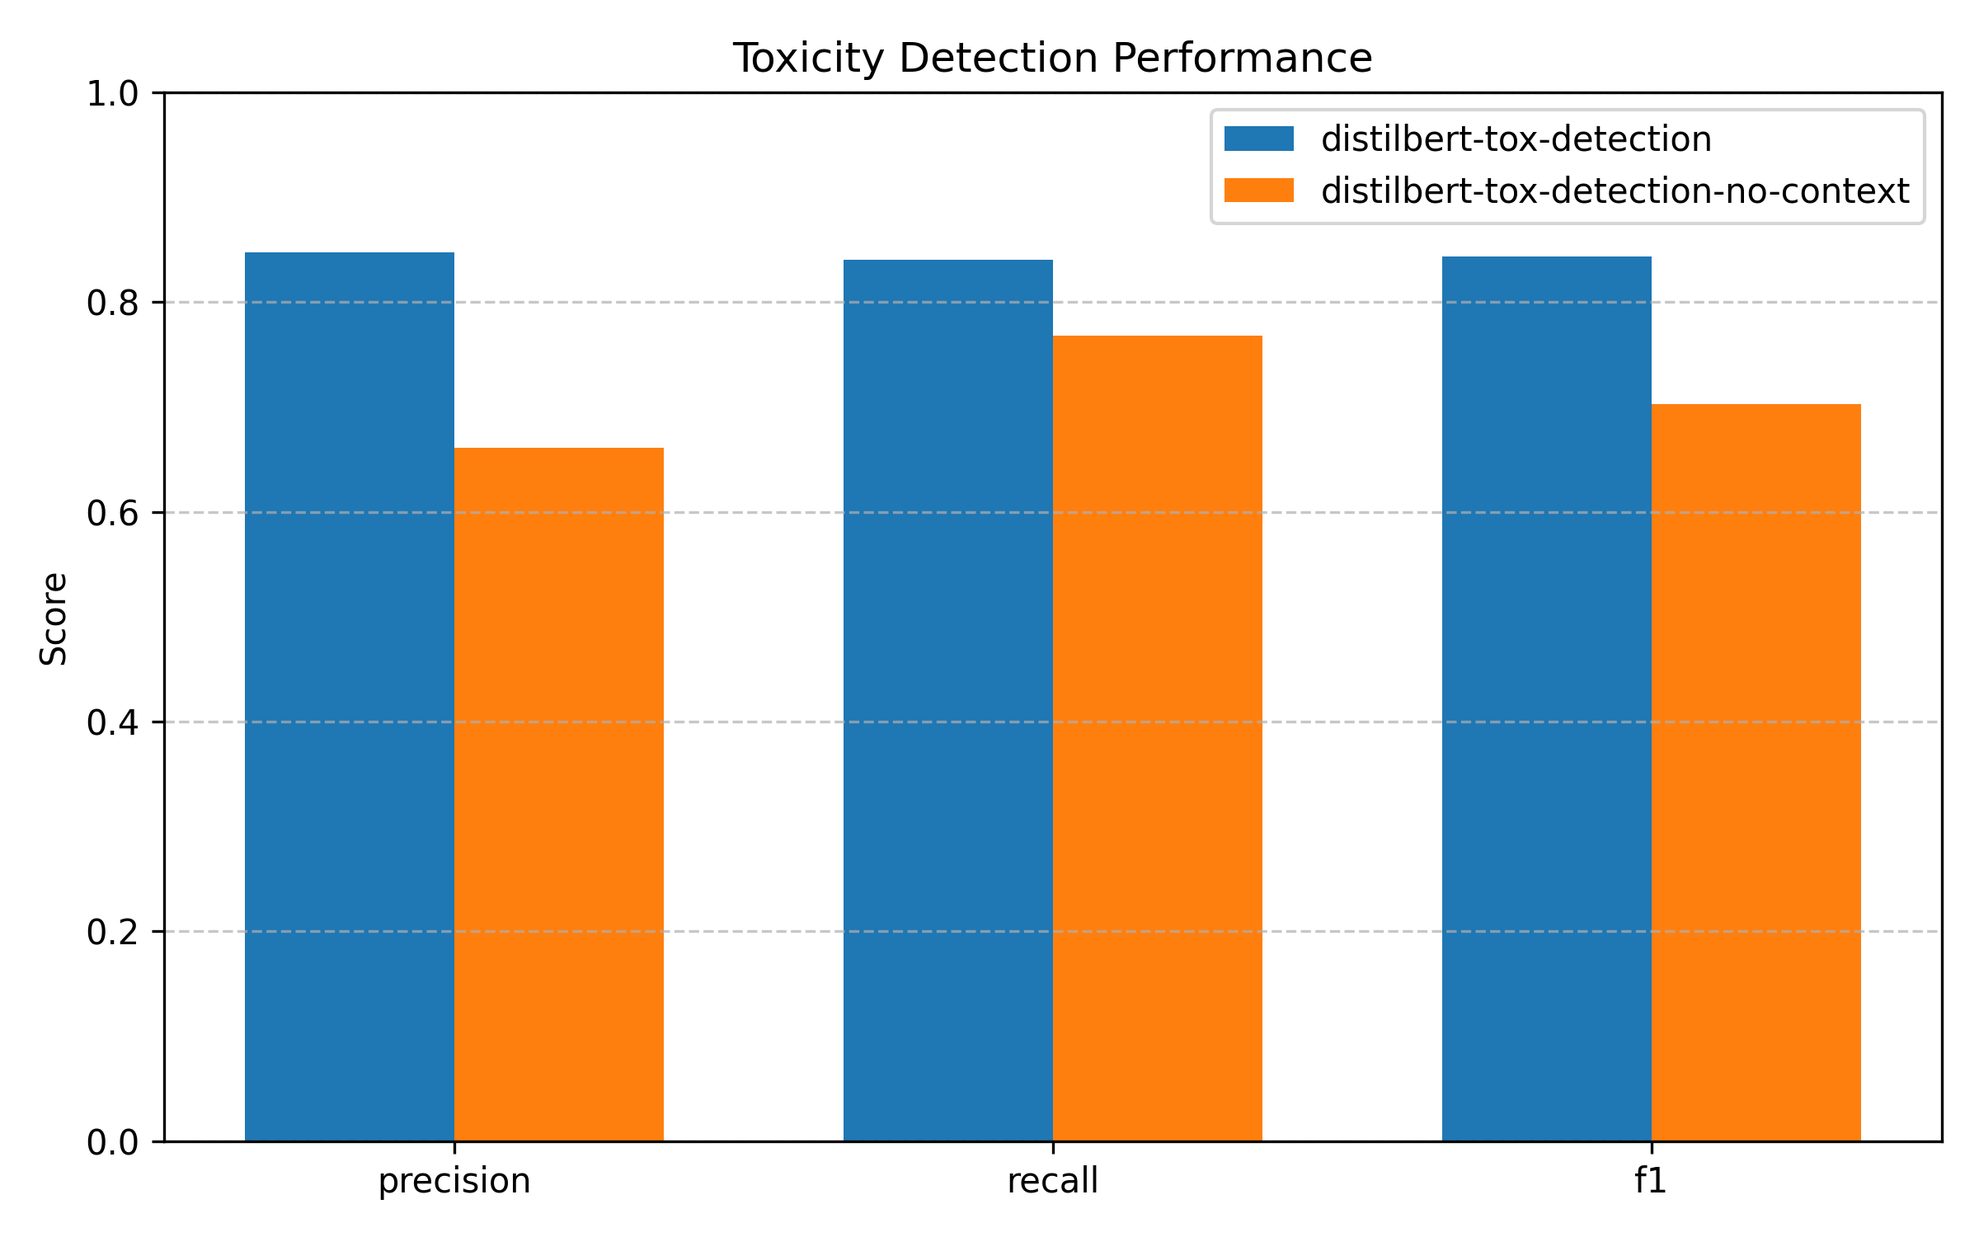
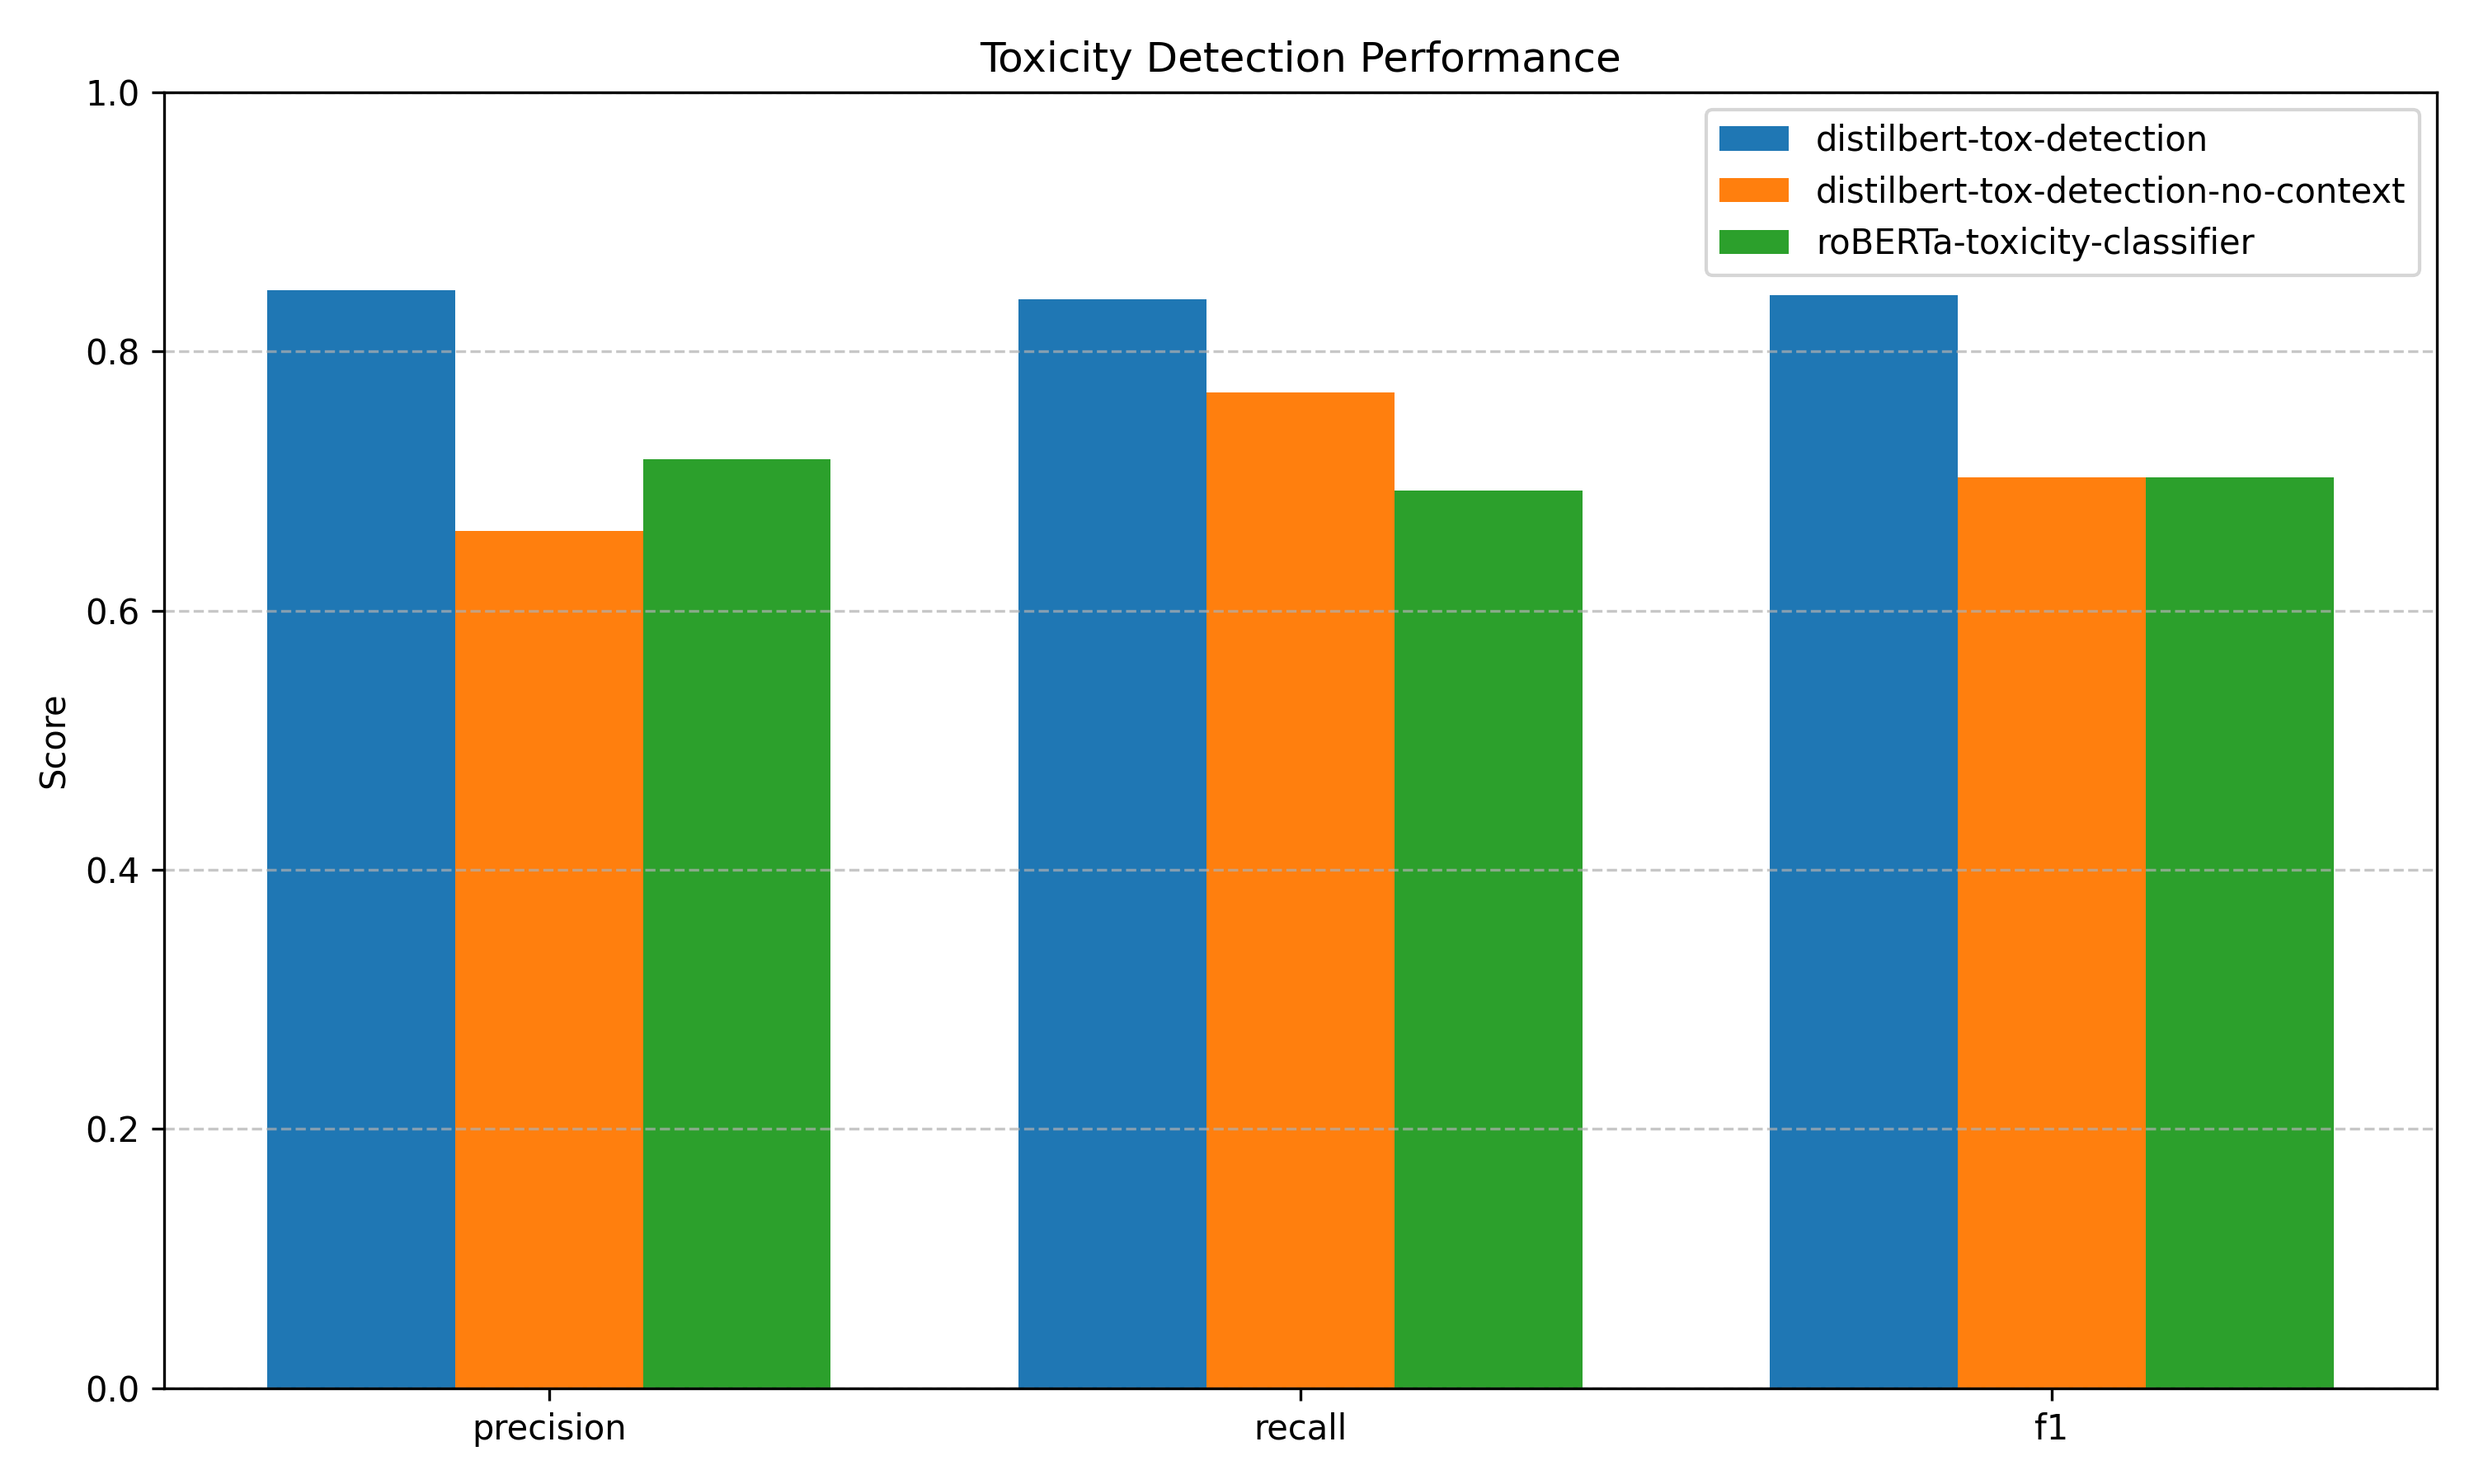
add roberta to comparison

diff --git a/plot.py b/plot.py
@@ -7,17 +7,18 @@ import os
 def is_scalar_metrics(results):
     return isinstance(results["precision"], float)
 
-def plot_overall_metrics(model1, model2, output_path, title):
+def plot_overall_metrics(models, output_path, title):
     metrics = ["precision", "recall", "f1"]
     x = np.arange(len(metrics))
-    width = 0.35
+    width = 0.25
 
-    values1 = [model1[m] for m in metrics]
-    values2 = [model2[m] for m in metrics]
+    fig, ax = plt.subplots(figsize=(10, 6))
 
-    fig, ax = plt.subplots(figsize=(8, 5))
-    ax.bar(x - width/2, values1, width, label=model1["model"])
-    ax.bar(x + width/2, values2, width, label=model2["model"])
+    for i, model in enumerate(models):
+        values = [model[m] for m in metrics]
+        offset = (i - (len(models) - 1) / 2) * width
+        ax.bar(x + offset, values, width, label=model["model"])
+
     ax.set_ylabel("Score")
     ax.set_title(title)
     ax.set_xticks(x)
@@ -29,13 +30,16 @@ def plot_overall_metrics(model1, model2, output_path, title):
     fig.savefig(output_path, dpi=300)
     print(f"Saved overall metrics plot to: {output_path}")
 
-def plot_class_metrics(model1, model2, class_labels, output_path, title):
+def plot_class_metrics(models, class_labels, output_path, title):
     x = np.arange(len(class_labels))
-    width = 0.35
+    width = 0.25
 
-    fig, ax = plt.subplots(figsize=(10, 6))
-    ax.bar(x - width/2, model1["f1"], width, label=model1["model"])
-    ax.bar(x + width/2, model2["f1"], width, label=model2["model"])
+    fig, ax = plt.subplots(figsize=(12, 6))
+
+    for i, model in enumerate(models):
+        offset = (i - (len(models) - 1) / 2) * width
+        ax.bar(x + offset, model["f1"], width, label=model["model"])
+
     ax.set_ylabel("F1 Score")
     ax.set_title(title)
     ax.set_xticks(x)
@@ -47,11 +51,12 @@ def plot_class_metrics(model1, model2, class_labels, output_path, title):
     fig.savefig(output_path, dpi=300)
     print(f"Saved per-class F1 plot to: {output_path}")
 
-
+# === CLI ===
 parser = argparse.ArgumentParser()
-parser.add_argument("--model1_results", "-m1", required=True, help="Path to model1_results result JSON")
-parser.add_argument("--model2_results", "-m2", required=True, help="Path to model2_results result JSON")
-parser.add_argument("--output_dir", "-o", default="plots", help="Directory to save plots")
+parser.add_argument("--model1", "-m1", required=True)
+parser.add_argument("--model2", "-m2", required=True)
+parser.add_argument("--model3", "-m3", help="Optional third model")
+parser.add_argument("--output_dir", "-o", default="plots")
 parser.add_argument("--class_labels", "-c", nargs="+", default=["Explicitly Toxic", "Implicitly Toxic", "Action", "Other"])
 parser.add_argument("--title1", "-t1", default="Toxicity Detection Performance")
 parser.add_argument("--title2", "-t2", default="Per-Class F1 Score Comparison")
@@ -59,26 +64,29 @@ args = parser.parse_args()
 
 os.makedirs(args.output_dir, exist_ok=True)
 
+# === Load models ===
+models = []
+with open(args.model1) as f:
+    models.append(json.load(f))
+with open(args.model2) as f:
+    models.append(json.load(f))
+if args.model3:
+    with open(args.model3) as f:
+        models.append(json.load(f))
 
-with open(args.model1_results, encoding="utf-8") as f, open(args.model2_results, encoding="utf-8") as g:
-    model1_results = json.load(f)
-    model2_results = json.load(g)
-
-
-if is_scalar_metrics(model1_results) and is_scalar_metrics(model2_results):
+# === Plot ===
+if all(is_scalar_metrics(m) for m in models):
     plot_overall_metrics(
-        model1_results,
-        model2_results,
+        models,
         os.path.join(args.output_dir, "metric_comparison.png"),
         args.title1
     )
-elif not is_scalar_metrics(model1_results) and not is_scalar_metrics(model2_results):
+elif all(not is_scalar_metrics(m) for m in models):
     plot_class_metrics(
-        model1_results,
-        model2_results,
+        models,
         args.class_labels,
         os.path.join(args.output_dir, "per_class_f1_comparison.png"),
         args.title2
     )
 else:
-    raise ValueError("Mismatch in input JSONs: one contains scalar metrics and the other per-class metrics.")
+    raise ValueError("Mismatch: some models use scalar metrics, others use per-class metrics.")
